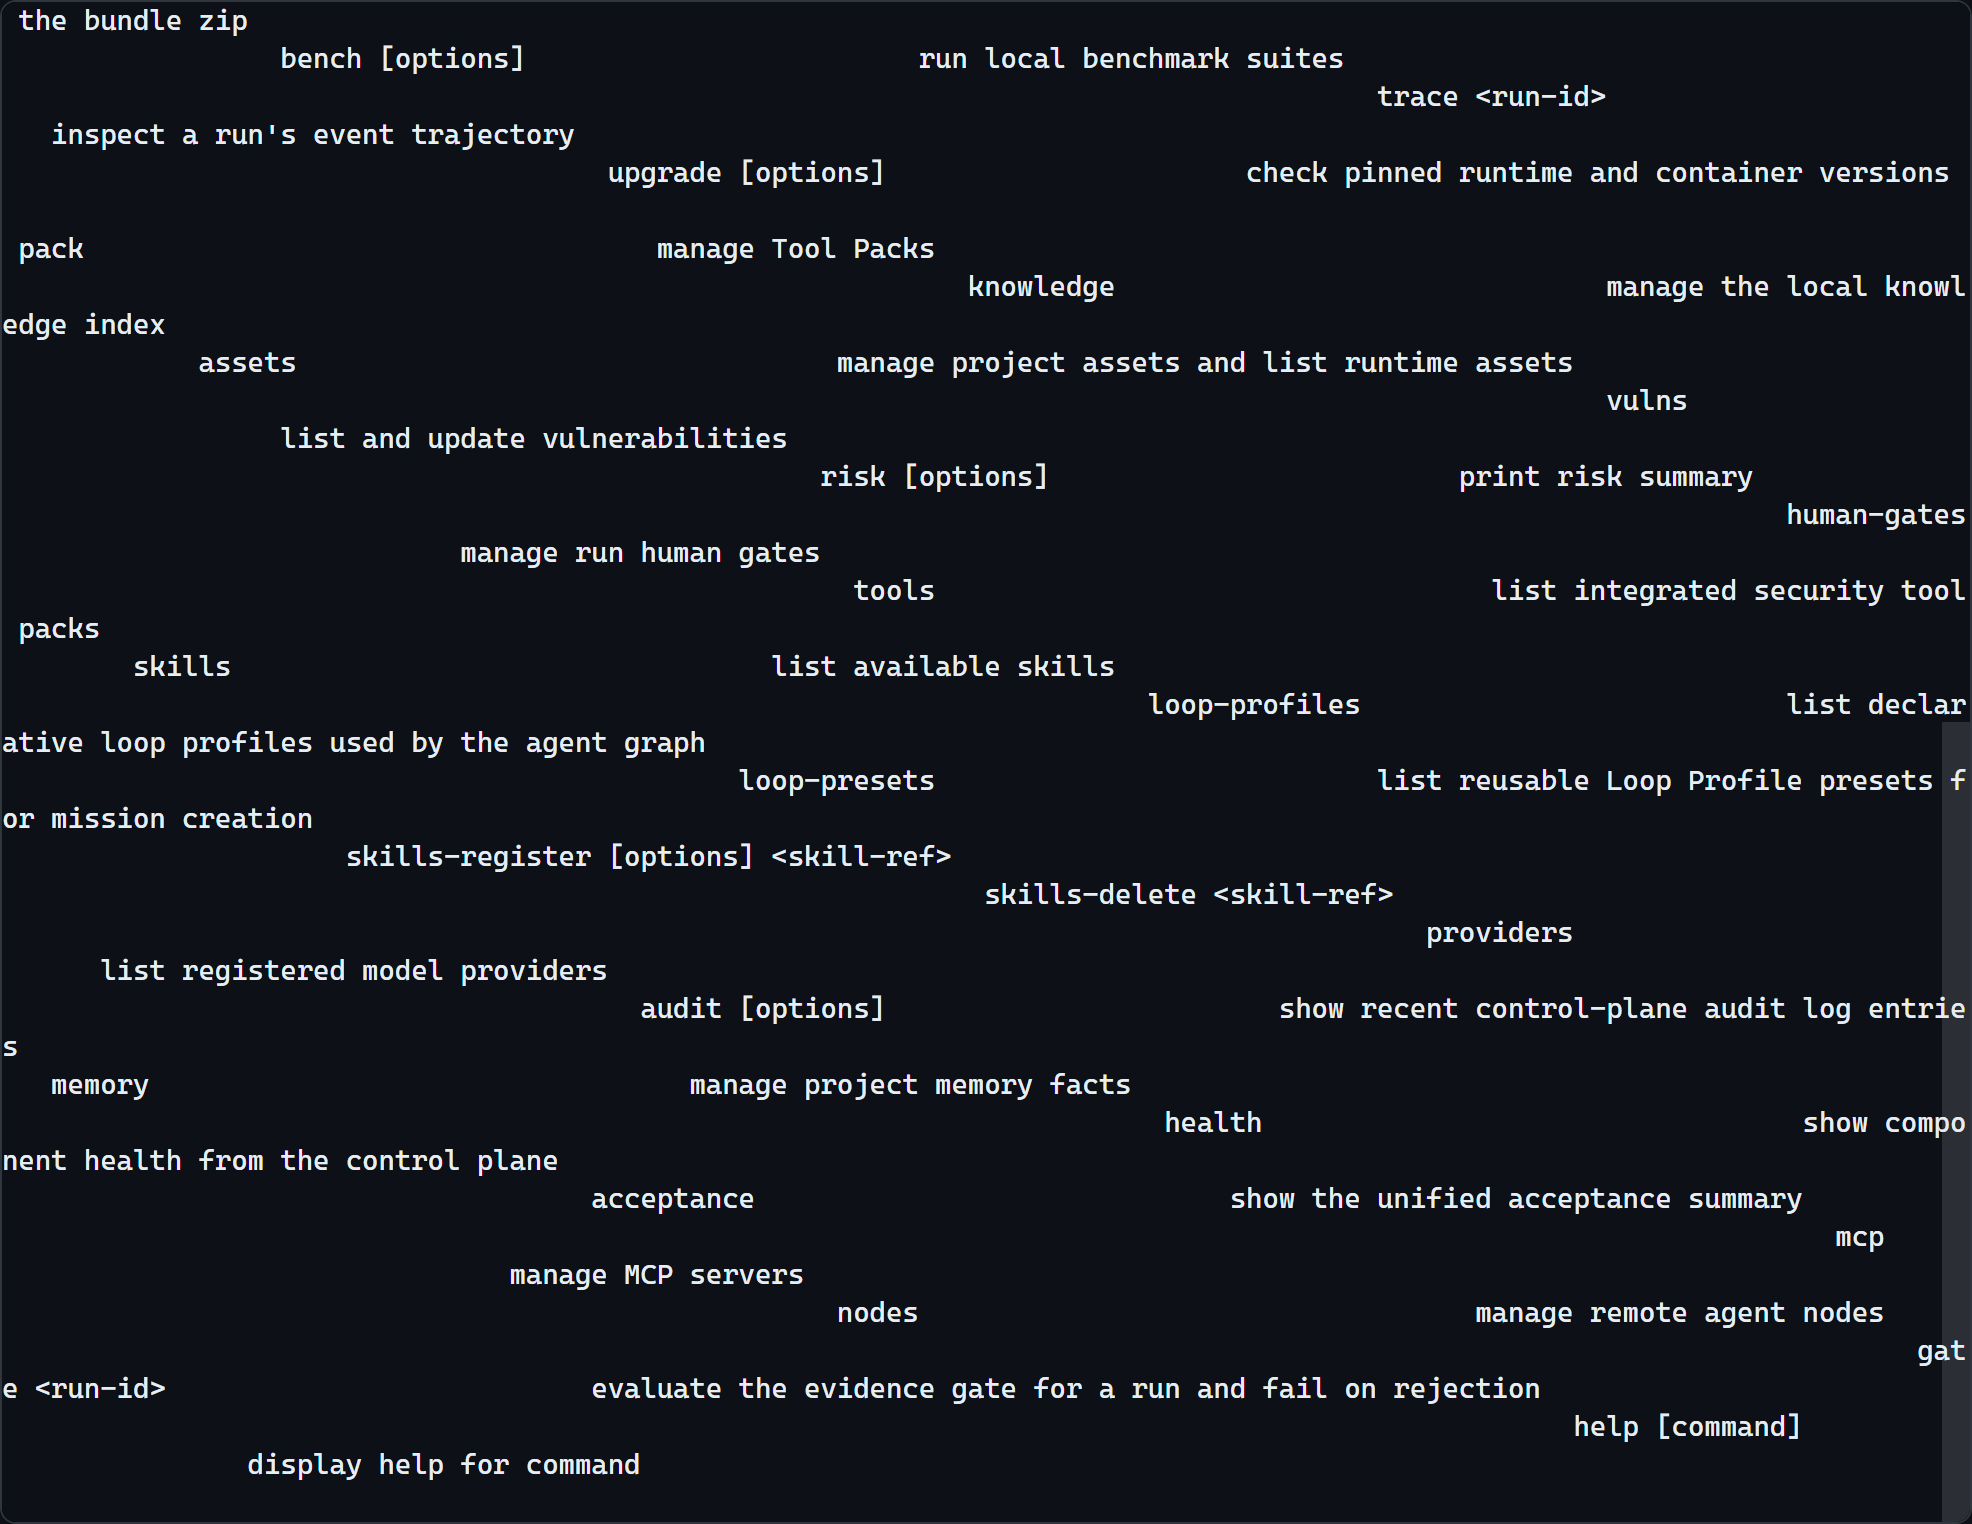
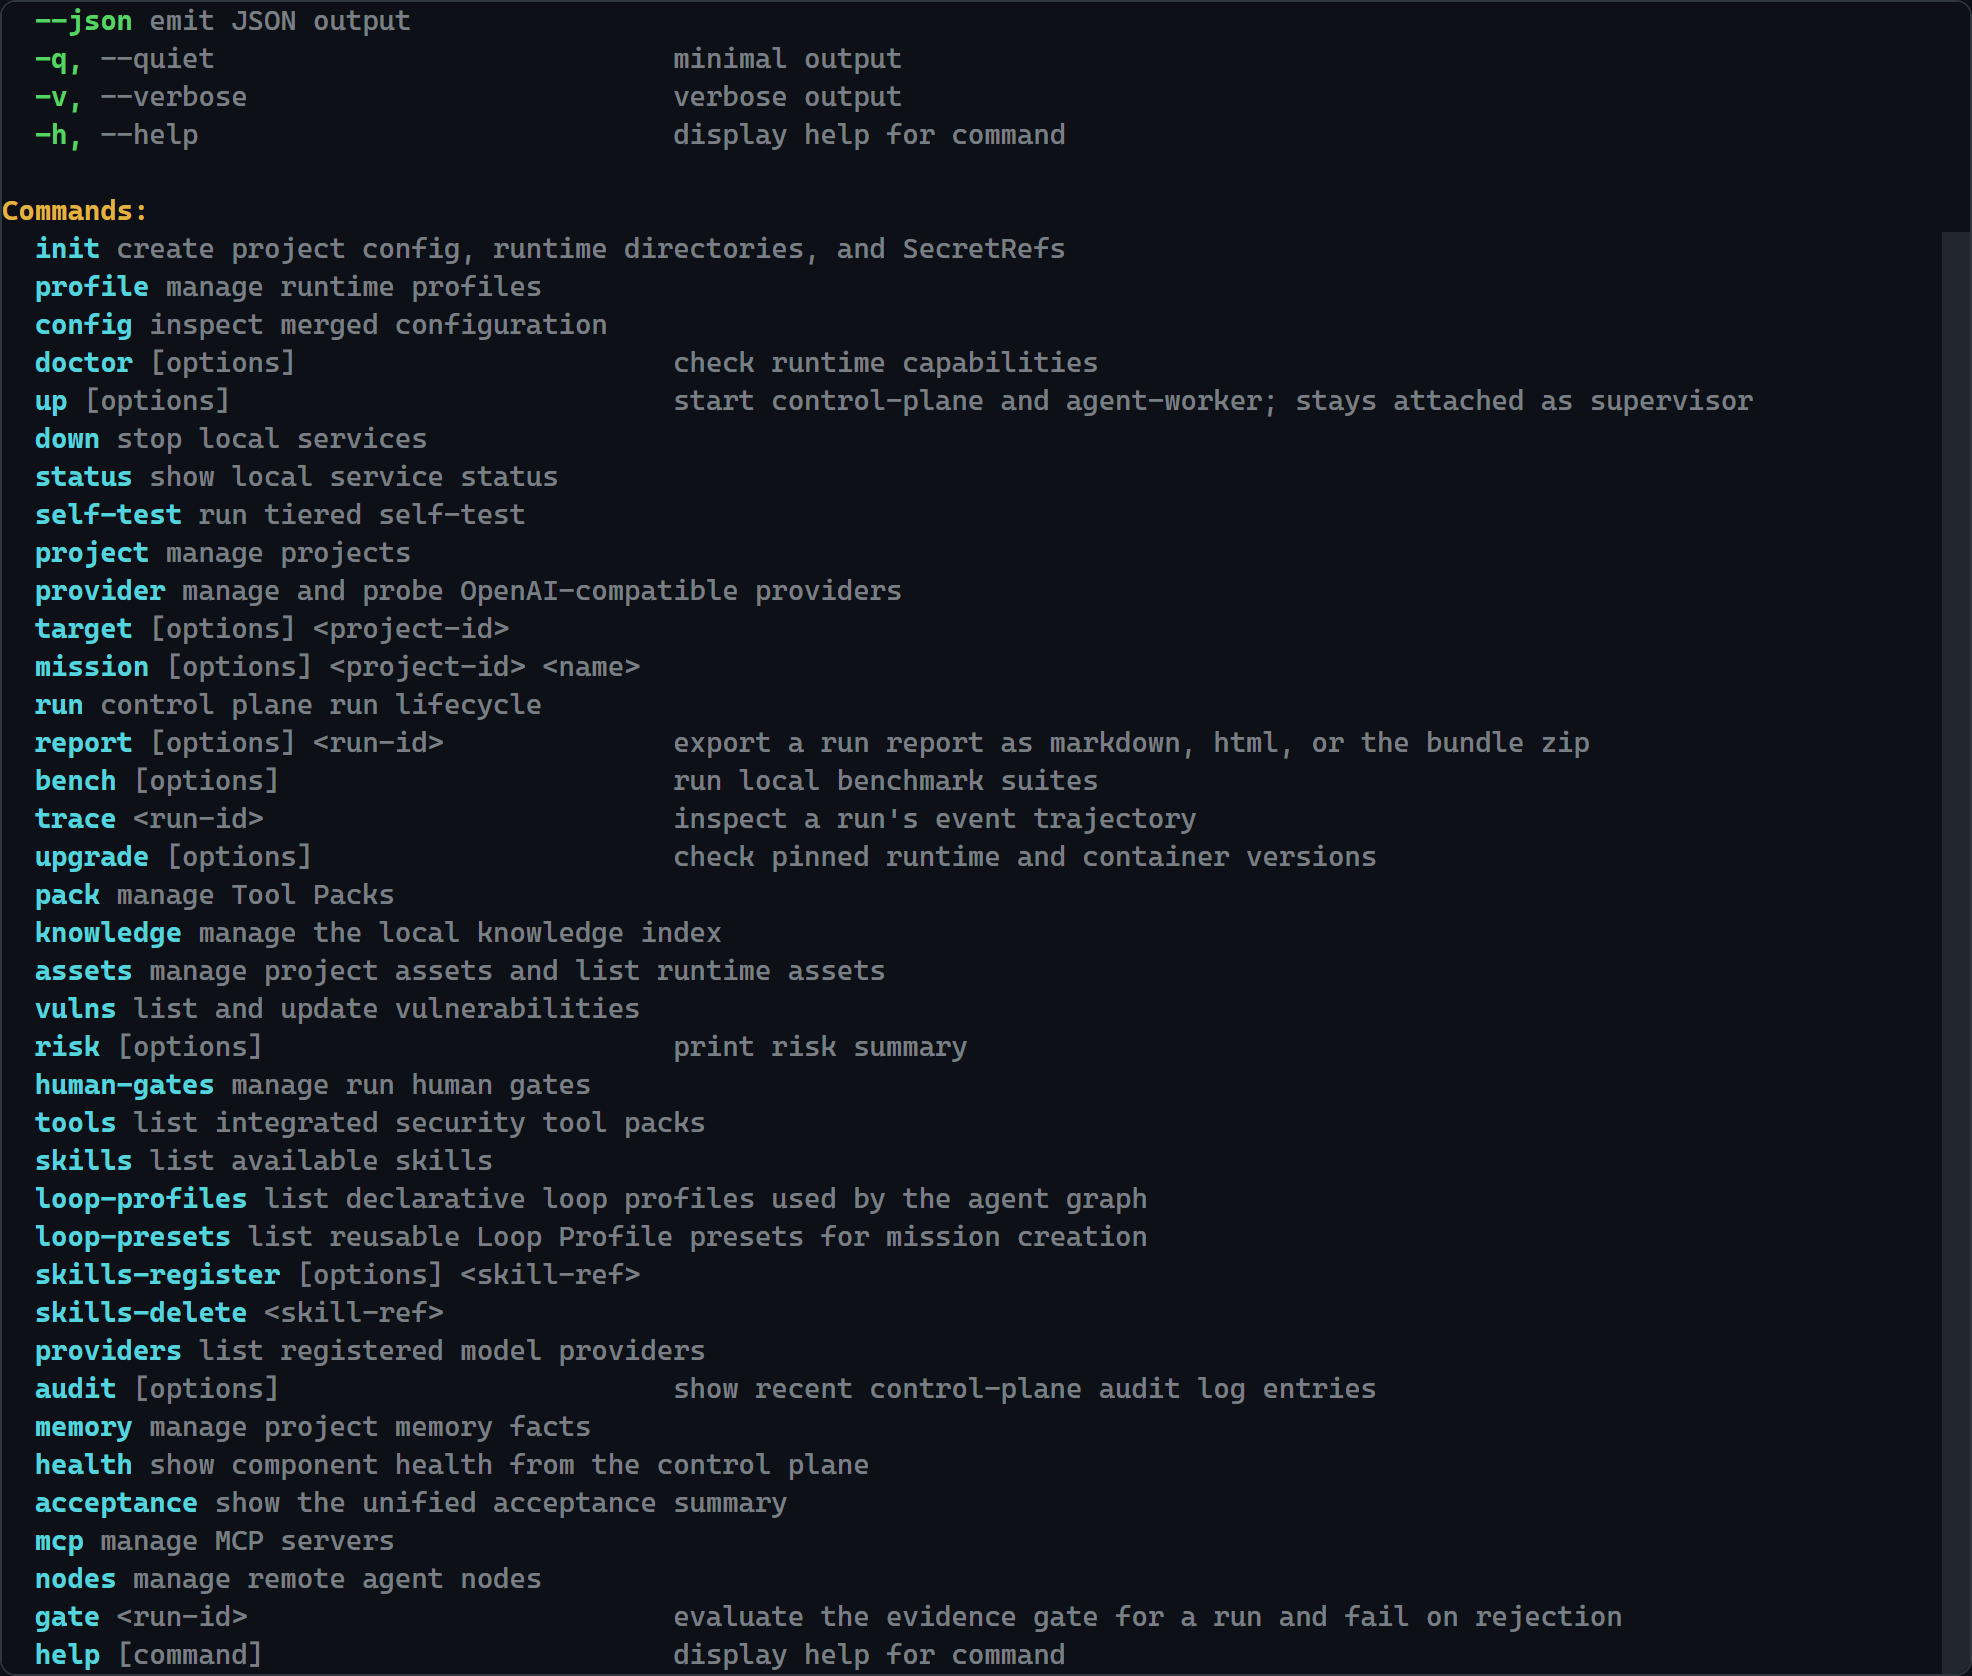
Center TUI home screen and polish CLI help screenshot

diff --git a/apps/tui/src/index.tsx b/apps/tui/src/index.tsx
@@ -683,31 +683,6 @@ function Footer({ detail, filter }: { detail: boolean; filter: string }) {
   );
 }
 
-function HomeStat({
-  label,
-  value,
-  tone,
-}: {
-  label: string;
-  value: string;
-  tone: string;
-}) {
-  return (
-    <Box
-      width={29}
-      borderStyle="single"
-      borderColor={tone}
-      flexDirection="column"
-      paddingX={1}
-    >
-      <Text dimColor>{label}</Text>
-      <Text bold color={tone}>
-        {value}
-      </Text>
-    </Box>
-  );
-}
-
 function HomeScreen({
   diagnostics,
   assets,
@@ -739,46 +714,30 @@ function HomeScreen({
   const mcp = (assets?.mcp as unknown[] | undefined)?.length ?? 0;
 
   return (
-    <Box flexDirection="column" width="100%">
-      <Box
-        borderStyle="double"
-        borderColor="cyan"
-        flexDirection="column"
-        alignItems="center"
-        paddingX={2}
-        paddingY={1}
-      >
-        <Text bold color="cyan">
-          VERIDIX
-        </Text>
-        <Text dimColor>授权安全测试与漏洞验证 Agent</Text>
-      </Box>
-      <Box marginTop={1} flexDirection="row">
-        <HomeStat label="运行" value={`${activeCount} 活动 / ${runs.length} 总计`} tone="cyan" />
-        <HomeStat label="模型" value={`${providers.length} 个供应商`} tone="green" />
-        <HomeStat label="组件" value={`${okCount} 项健康`} tone="yellow" />
-        <HomeStat label="工具" value={toolHealth ? "可用" : "未就绪"} tone={toolHealth ? "green" : "red"} />
-      </Box>
-      <Box marginTop={1} borderStyle="single" borderColor="cyan" flexDirection="column" paddingX={1}>
-        <Text bold color="cyan">
-          入口
+    <Box flexDirection="column" alignItems="center" marginTop={7} width="100%">
+      <Text bold color="cyan">
+        V E R I D I X
+      </Text>
+      <Text dimColor>授权安全测试与漏洞验证 Agent</Text>
+      <Box marginTop={3} flexDirection="column" alignItems="center">
+        <Text>
+          <Text bold color="cyan">[ Enter ]</Text>  运行列表
         </Text>
         <Text>
-          <Text bold>Enter</Text> 运行列表
+          <Text bold color="green">[ n ]</Text>     新建任务
         </Text>
         <Text>
-          <Text bold>n</Text> 新建任务
+          <Text bold color="yellow">[ / ]</Text>     斜杠命令
         </Text>
         <Text>
-          <Text bold>/</Text> 斜杠命令：providers / skills / mcp / knowledge / memory / health
-        </Text>
-        <Text>
-          <Text bold>q</Text> 退出
+          <Text bold color="red">[ q ]</Text>     退出
         </Text>
       </Box>
-      <Box marginTop={1}>
+      <Box marginTop={3}>
         <Text dimColor>
-          技能 {skills} 个  ·  MCP {mcp} 个  ·  存储 {storage.available ? "已就绪" : "未上报"}
+          运行 {activeCount}/{runs.length}  ·  模型 {providers.length}  ·
+          组件 {okCount}  ·  工具 {toolHealth ? "可用" : "未就绪"}  ·
+          技能 {skills}  ·  MCP {mcp}  ·  存储 {storage.available ? "已就绪" : "未上报"}
         </Text>
       </Box>
     </Box>
